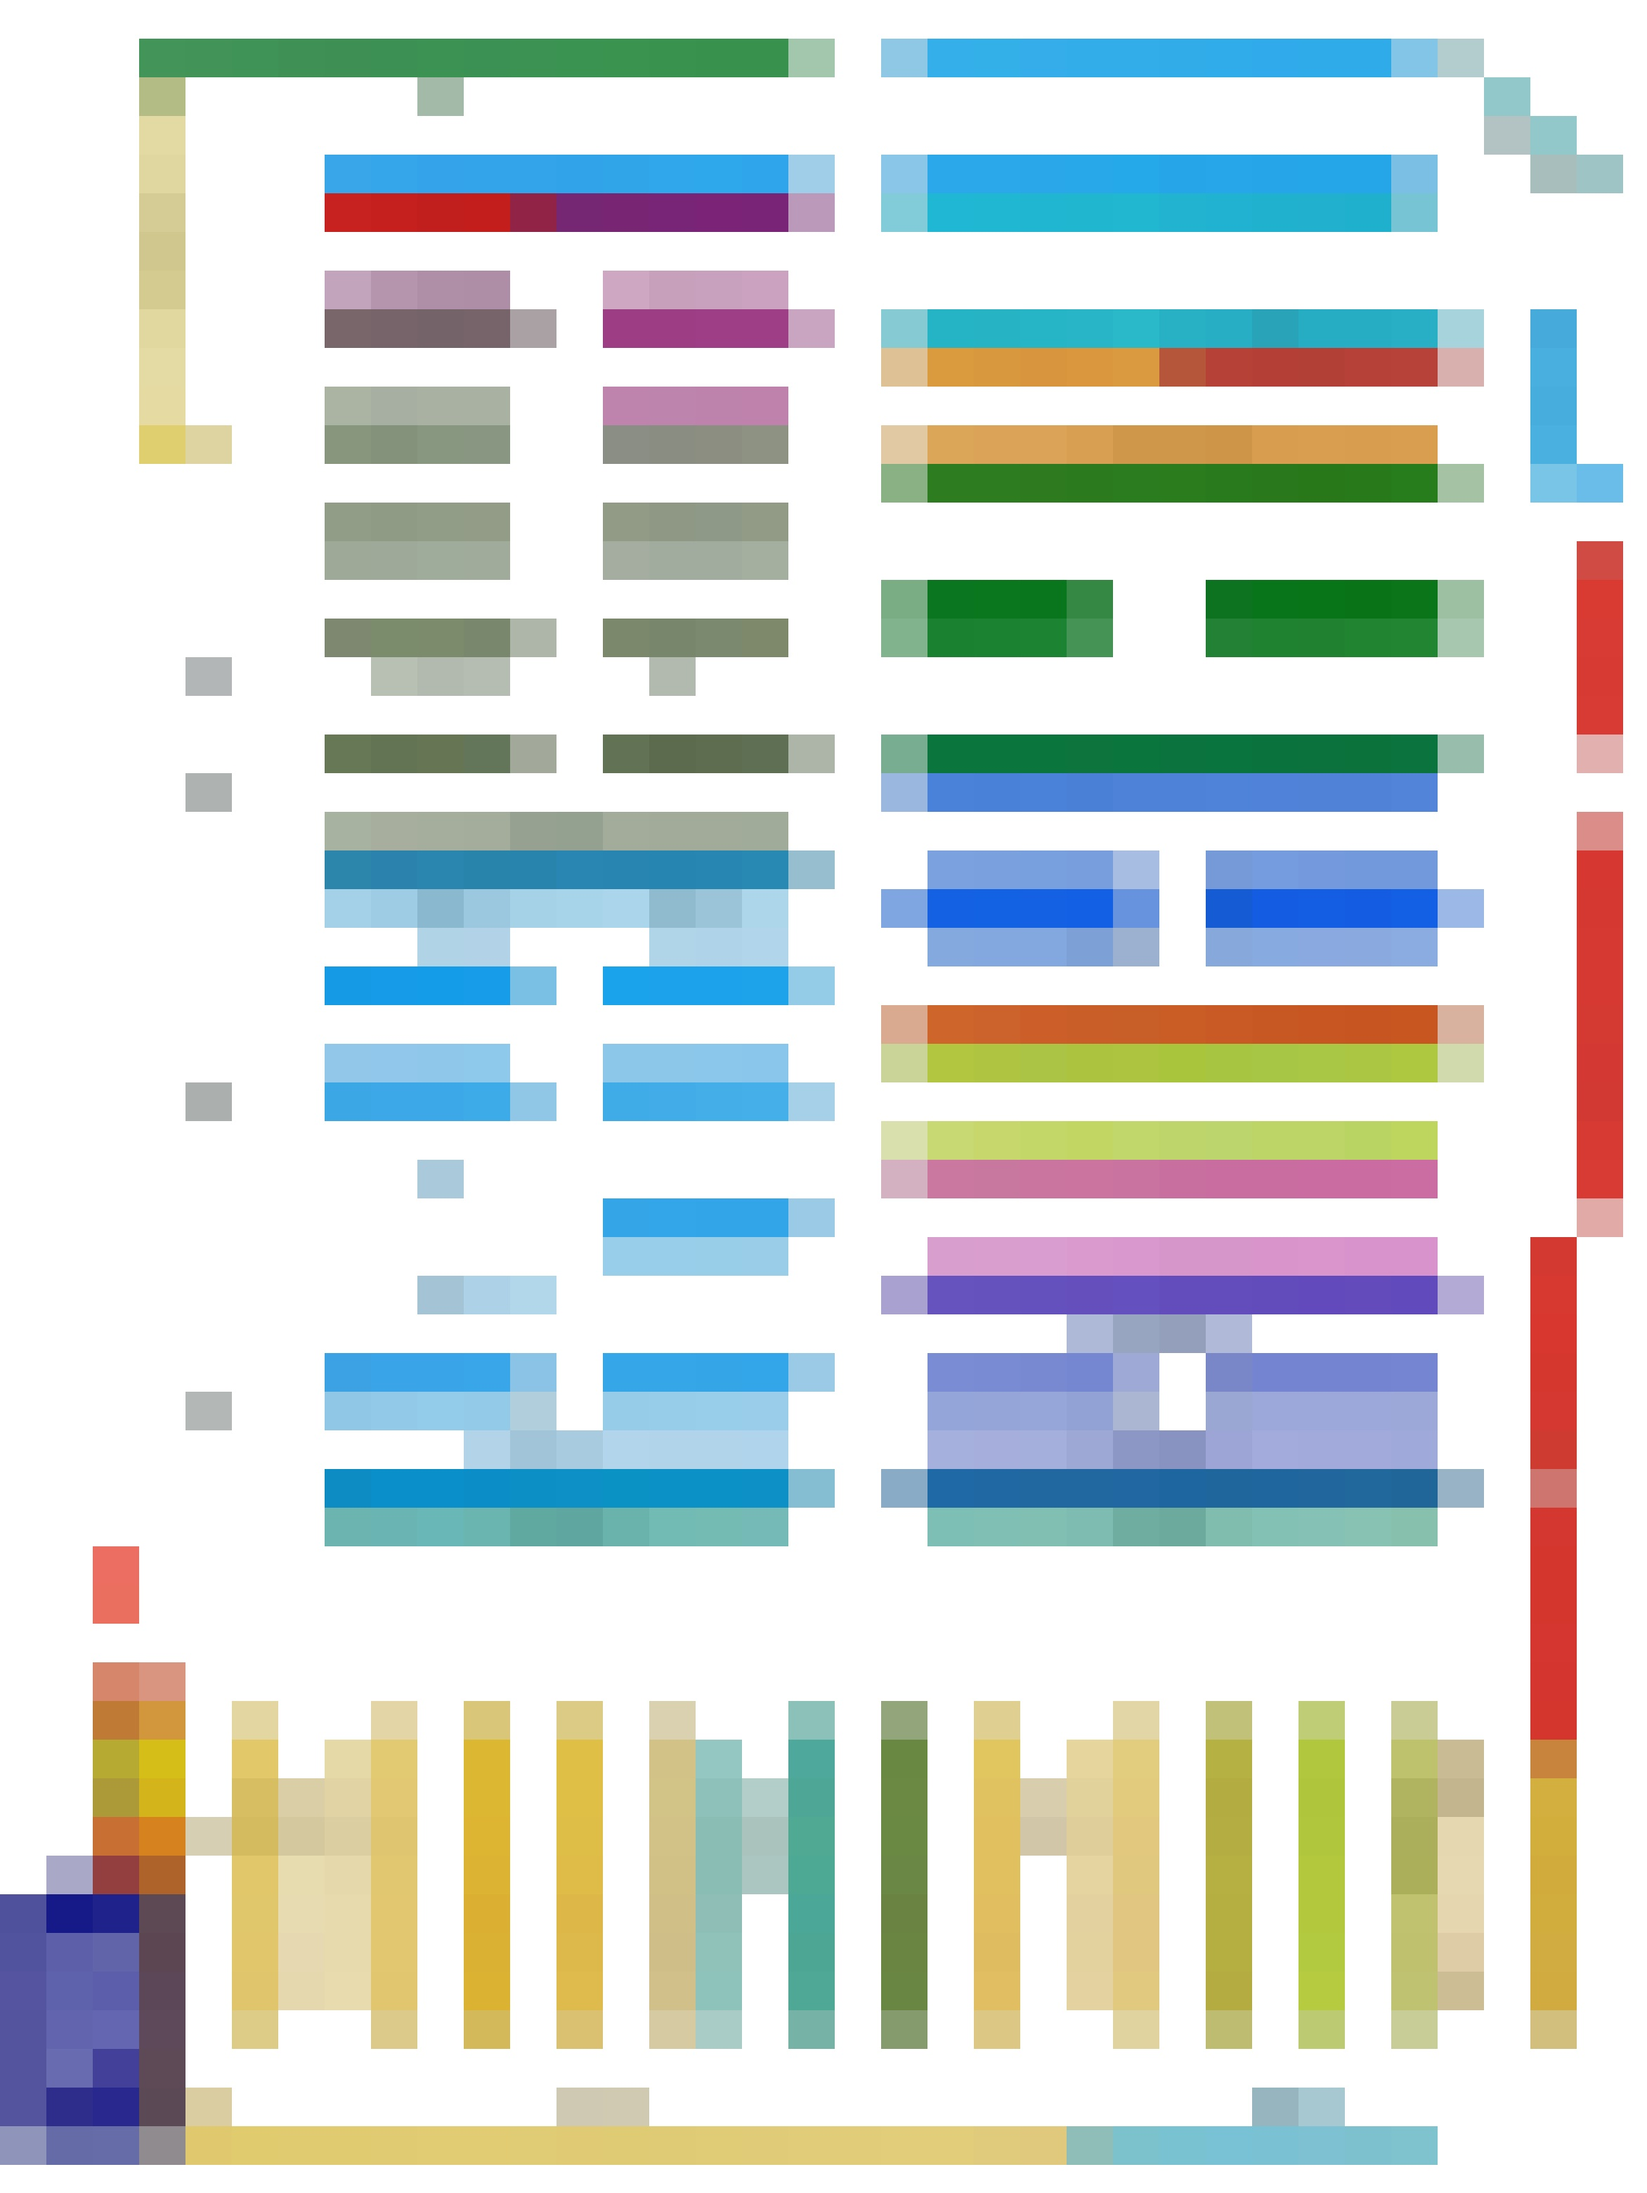
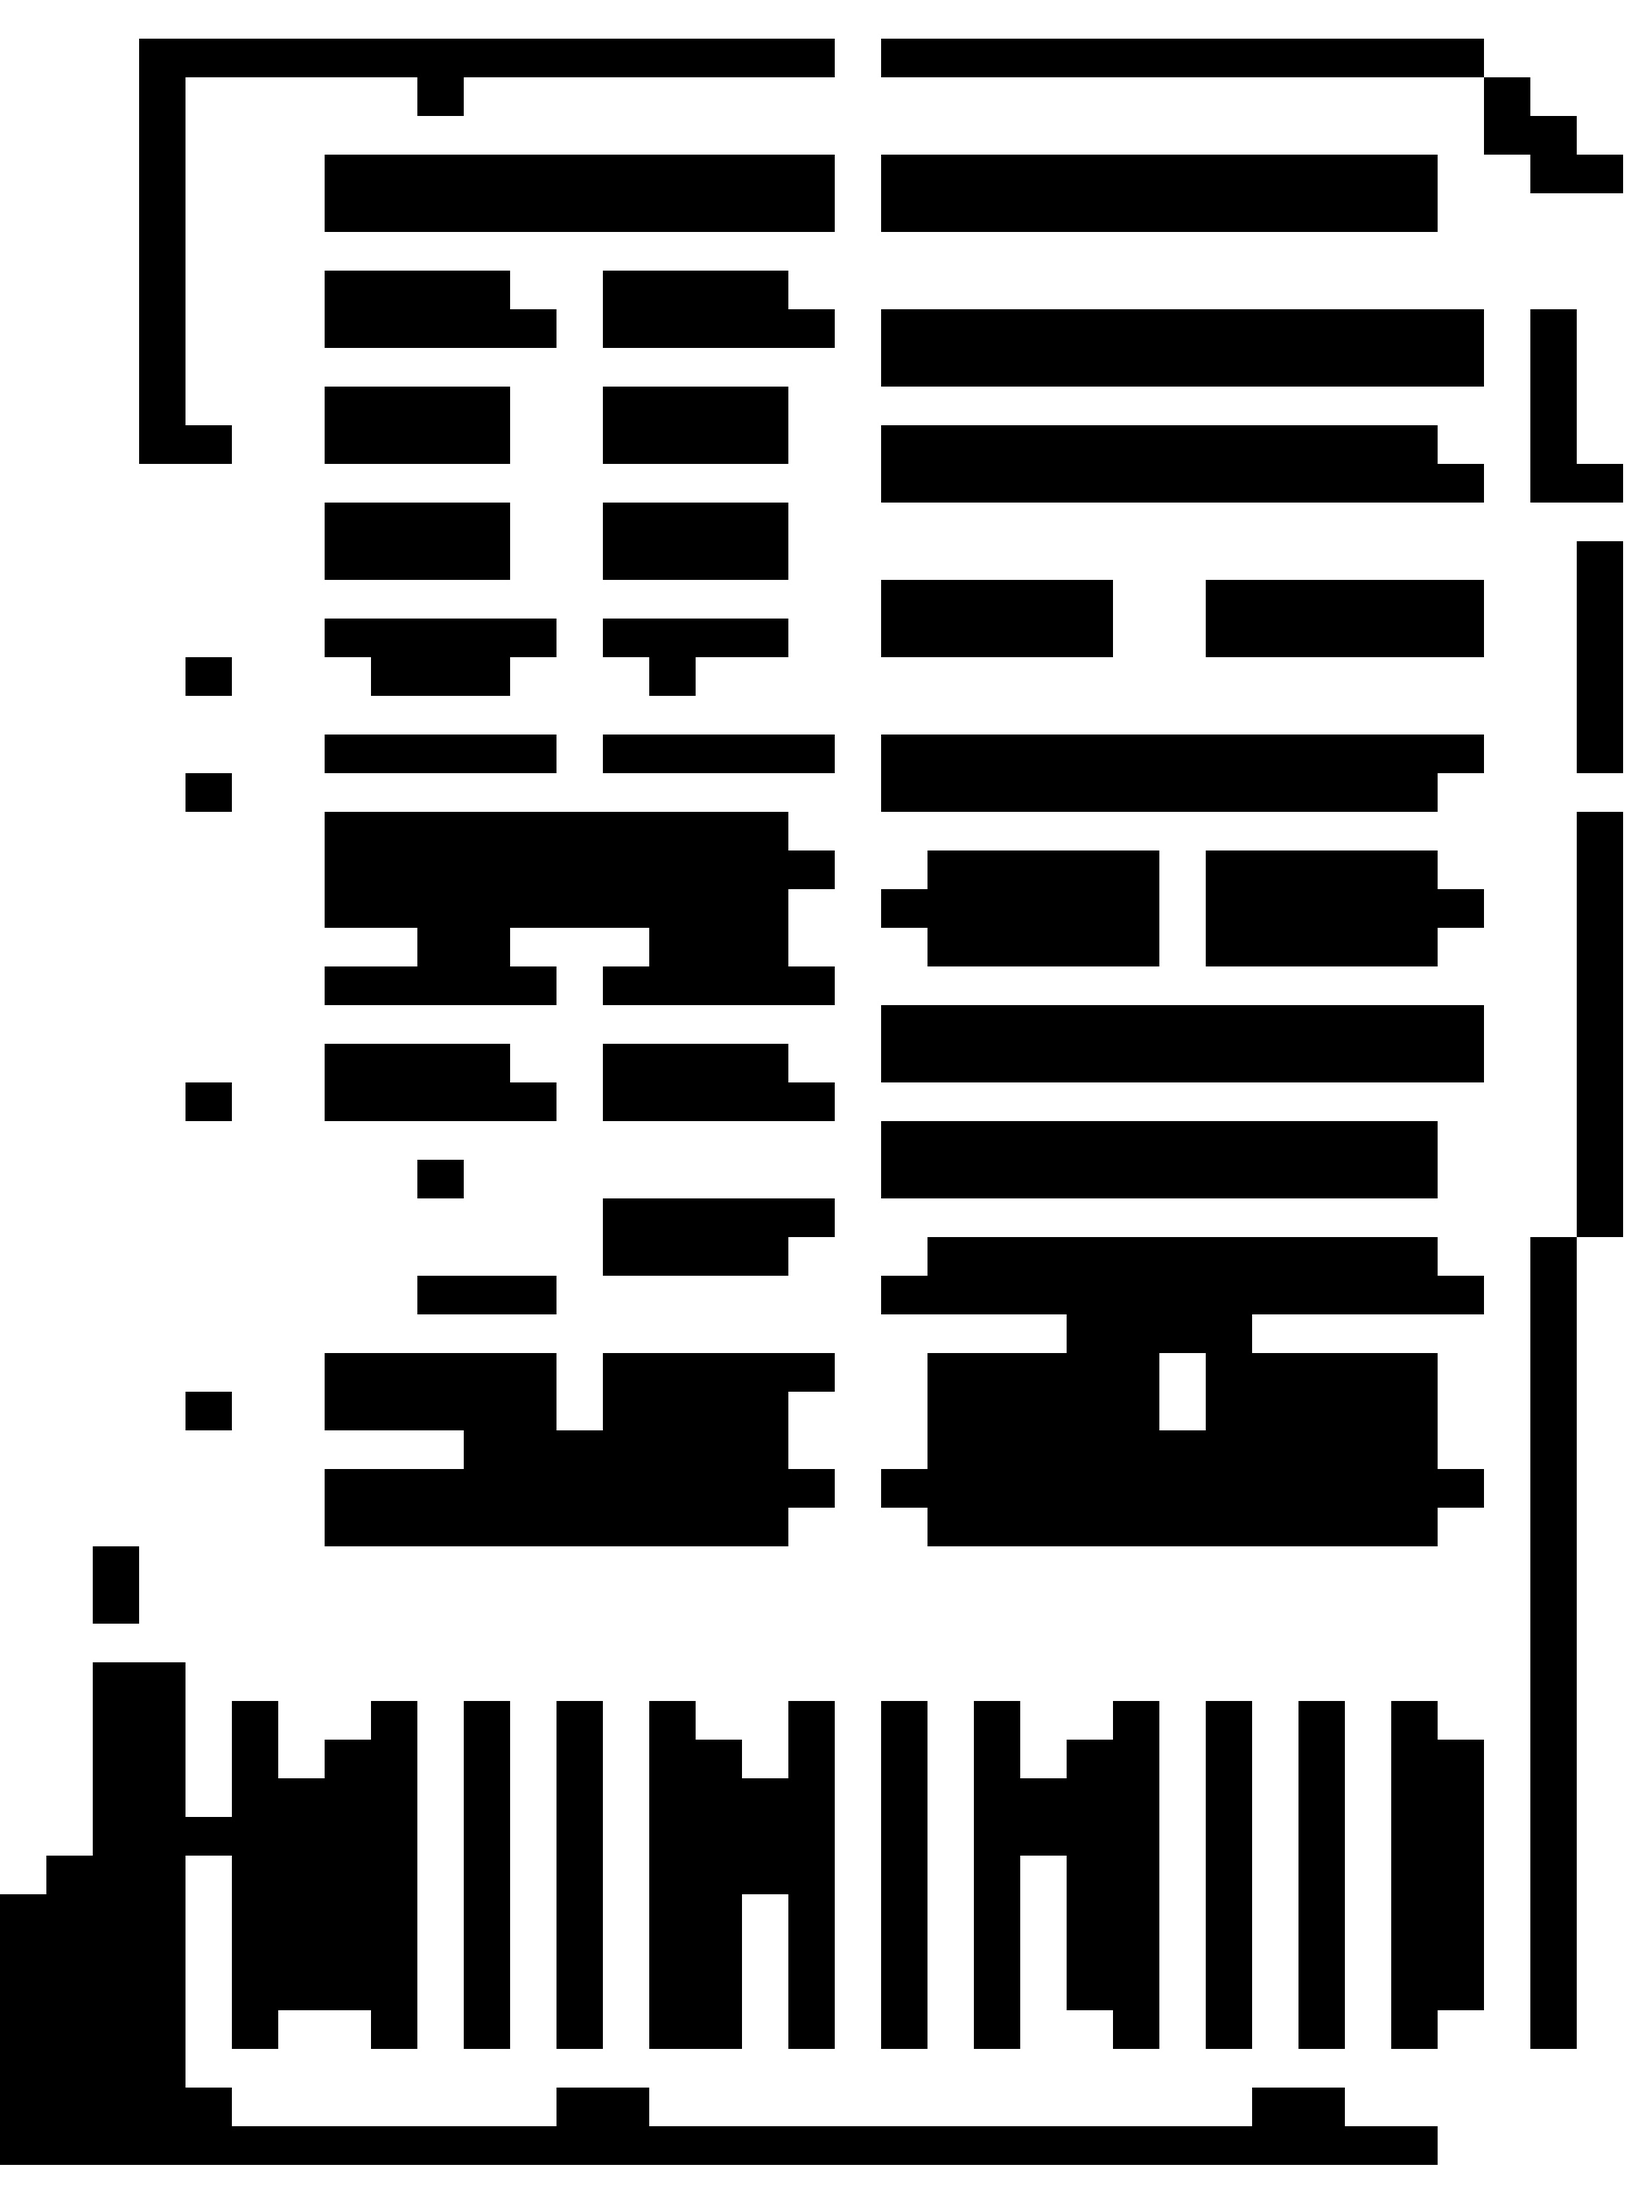
couleur de cases ok

diff --git a/src/modelAdmin.py b/src/modelAdmin.py
@@ -67,7 +67,7 @@ class MagasinModel:
 
 
     def analyser_image(self):
-        """Analyse l'image du plan pour détecter les rayons"""
+        """Analyse l'image du plan pour détecter les rayons selon la couleur moyenne"""
         script_dir = os.path.dirname(os.path.abspath(__file__))
         chemin_image = os.path.join(script_dir, "..", "plan_magasin.jpg")
         
@@ -77,59 +77,53 @@ class MagasinModel:
                 print("Erreur : Impossible de charger l'image.")
                 return []
 
+            # Conversion et rotation
             image_rgb = cv2.cvtColor(image, cv2.COLOR_BGR2RGB)
             image_rgb = cv2.rotate(image_rgb, cv2.ROTATE_90_CLOCKWISE)
             hauteur, largeur = image_rgb.shape[:2]
-            
-            # Créer l'image de visualisation
-            viz_image = np.zeros((hauteur, largeur, 3), dtype=np.uint8)
-            # Première passe : on met tout en blanc
-            viz_image.fill(255)
-            
-            # Deuxième passe : on colorie uniquement les cases non blanches
+
+            # Image de visualisation : blanc par défaut
+            viz_image = np.full((hauteur, largeur, 3), 255, dtype=np.uint8)
+
+            largeur_case = largeur // self.nb_colonnes
+            hauteur_case = hauteur // self.nb_lignes
+
+            # Première passe : remplit viz_image avec les couleurs moyennes
             for ligne in range(self.nb_lignes):
                 for colonne in range(self.nb_colonnes):
-                    x_debut = colonne * (largeur // self.nb_colonnes)
-                    y_debut = ligne * (hauteur // self.nb_lignes)
-                    x_fin = min(x_debut + (largeur // self.nb_colonnes), largeur)
-                    y_fin = min(y_debut + (hauteur // self.nb_lignes), hauteur)
-                    
-                    zone = image_rgb[y_debut:y_fin, x_debut:x_fin]
-                    moyenne_pixels = np.mean(zone, axis=(0, 1))
-                    
-                    # Si la moyenne des pixels est sous le seuil, on garde la couleur
-                    if np.any(moyenne_pixels < self.seuil_blanc):
-                        viz_image[y_debut:y_fin, x_debut:x_fin] = moyenne_pixels.astype(np.uint8)
+                    x_debut = colonne * largeur_case
+                    y_debut = ligne * hauteur_case
+                    x_fin = min(x_debut + largeur_case, largeur)
+                    y_fin = min(y_debut + hauteur_case, hauteur)
 
-            # Troisième passe : on liste toutes les cases qui ne sont pas blanches pures (#FFFFFF)
+                    zone = image_rgb[y_debut:y_fin, x_debut:x_fin]
+                    moyenne = np.mean(zone, axis=(0, 1))
+
+                    if np.any(moyenne < self.seuil_blanc):
+                        viz_image[y_debut:y_fin, x_debut:x_fin] = (0, 0, 0)
+
+            # Deuxième passe : détecte les cases qui ont été coloriées en noir
             cases_colorees = []
             for ligne in range(self.nb_lignes):
                 for colonne in range(self.nb_colonnes):
-                    x_debut = colonne * (largeur // self.nb_colonnes)
-                    y_debut = ligne * (hauteur // self.nb_lignes)
-                    x_fin = min(x_debut + (largeur // self.nb_colonnes), largeur)
-                    y_fin = min(y_debut + (hauteur // self.nb_lignes), hauteur)
-                    
-                    zone = viz_image[y_debut:y_fin, x_debut:x_fin]
-                    # On vérifie si la zone n'est pas entièrement blanche pure (#FFFFFF)
-                    if not np.all(zone == [255, 255, 255]):
-                        cases_colorees.append((colonne, ligne))
-                        print(f"Case non blanche en ({colonne}, {ligne})")
+                    x_debut = colonne * largeur_case
+                    y_debut = ligne * hauteur_case
+                    x_fin = min(x_debut + largeur_case, largeur)
+                    y_fin = min(y_debut + hauteur_case, hauteur)
 
+                    zone = viz_image[y_debut:y_fin, x_debut:x_fin]
+
+                    # Vérifie si la zone est entièrement noire (0, 0, 0)
+                    if np.all(zone == 0):
+                        cases_colorees.append((ligne, colonne))
+
+            # Sauvegarde de l’image de visualisation
             chemin_viz = os.path.join(script_dir, "..", "visualization.jpg")
             cv2.imwrite(chemin_viz, cv2.cvtColor(viz_image, cv2.COLOR_RGB2BGR))
-            print(f"Nombre de cases non blanches : {len(cases_colorees)}")
+            print(f"Nombre final de cases colorées (non blanches pures) : {len(cases_colorees)}")
 
             return cases_colorees
 
         except Exception as e:
             print(f"Erreur lors de l'analyse de l'image: {e}")
             return []
-
-
-
-    
-
-
-
-
